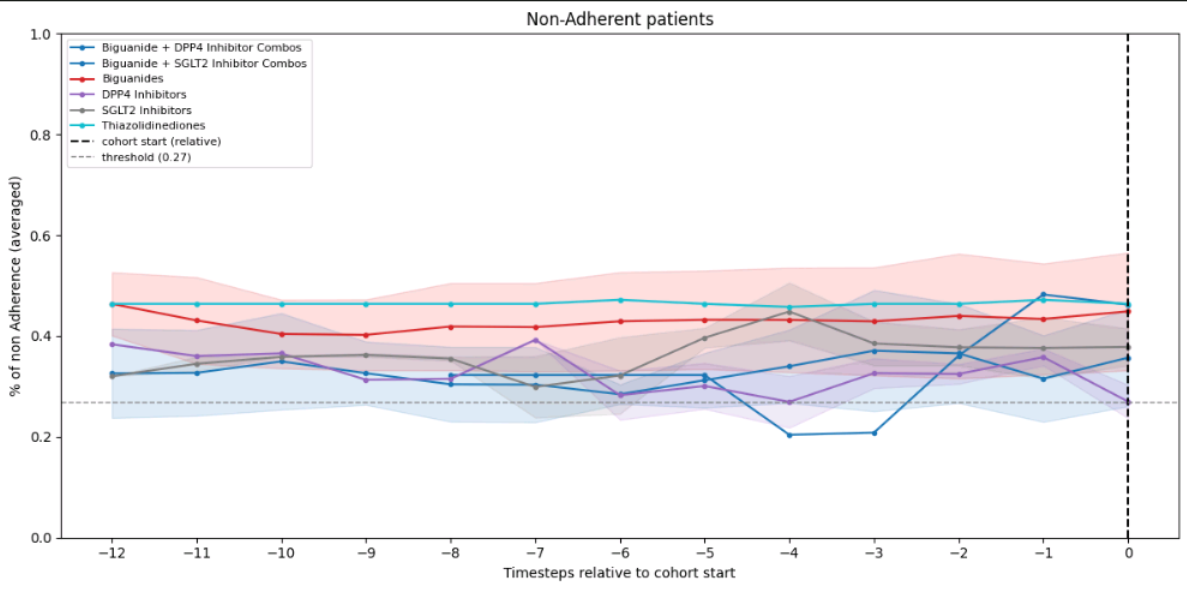
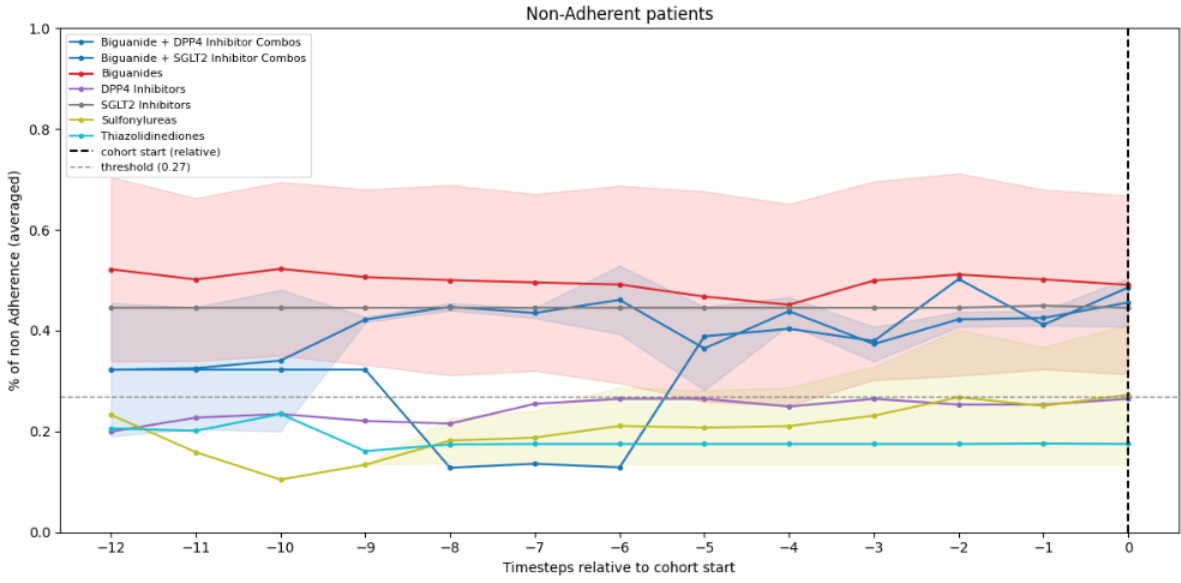
Changed global graphs

diff --git a/main.py b/main.py
@@ -61,6 +61,13 @@ GRAPH_DOT_CLASSES = {
 GRAPH_HOVER_TEXT = {
     "thiazolidinediones": "Model povećava vjerojatnost neadherencije jer pacijent pokazuje lošiji prethodni obrazac pokrivenosti terapijom, veće razmake između podizanja lijekova te nepovoljnije kliničke signale poput glukoze i HbA1c-a, što zajedno upućuje na veći rizik neredovitog uzimanja terapije.",
 }
+GRAPH_IN_USE = {
+    "all",
+    "biguanides",
+    "biguanide-dpp4-combos",
+    "dpp4-inhibitors",
+    "thiazolidinediones",
+}
 PATIENTS = [
     {"id": "ana-kovac", "name": "Ana Kovač", "status": "Neadherentan"},
     {"id": "marko-babic", "name": "Marko Babić", "status": "Neadherentan"},
@@ -550,6 +557,7 @@ def render_layout(title: str, body: str, header_title: str | None = None) -> str
       display: flex;
       align-items: center;
       gap: 10px;
+      justify-content: space-between;
       color: var(--text);
       font: inherit;
       font-family: "Trebuchet MS", "Segoe UI", sans-serif;
@@ -558,6 +566,25 @@ def render_layout(title: str, body: str, header_title: str | None = None) -> str
       white-space: normal;
       word-break: break-word;
       text-wrap: balance;
+    }}
+
+    .dropdown-option-left {{
+      display: flex;
+      align-items: center;
+      gap: 10px;
+      min-width: 0;
+    }}
+
+    .med-flag {{
+      flex: 0 0 auto;
+      padding: 4px 8px;
+      border-radius: 999px;
+      background: var(--warn-soft);
+      color: var(--warn);
+      font-size: 0.72rem;
+      font-weight: 700;
+      white-space: nowrap;
+      letter-spacing: 0.01em;
     }}
 
     .dropdown-option:hover {{
@@ -831,8 +858,11 @@ def render_patient_page(patient: dict, selected_graph: str) -> str:
     graph_buttons = "".join(
         f'''
         <button type="button" class="dropdown-option" data-graph="{key}">
-          <span class="status-dot {GRAPH_DOT_CLASSES[key]}"></span>
-          <span>{label}</span>
+          <span class="dropdown-option-left">
+            <span class="status-dot {GRAPH_DOT_CLASSES[key]}"></span>
+            <span>{label}</span>
+          </span>
+          {"<span class='med-flag'>Ne koristi</span>" if key not in GRAPH_IN_USE else ""}
         </button>
         '''
         for key, label in GRAPH_LABELS.items()